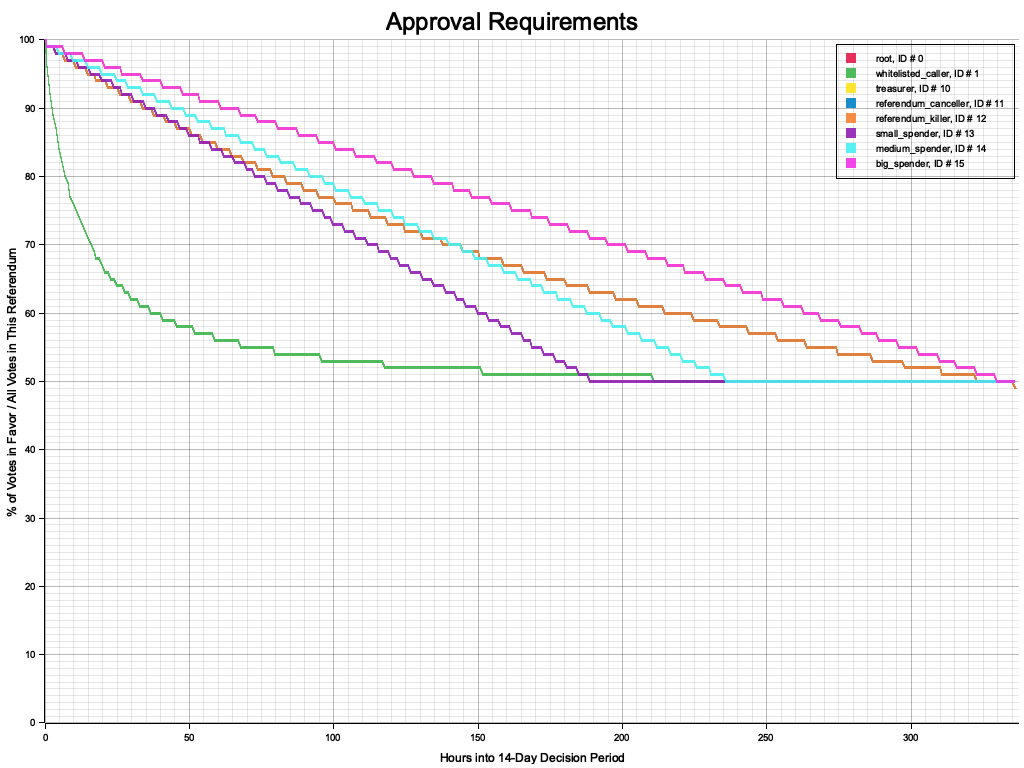
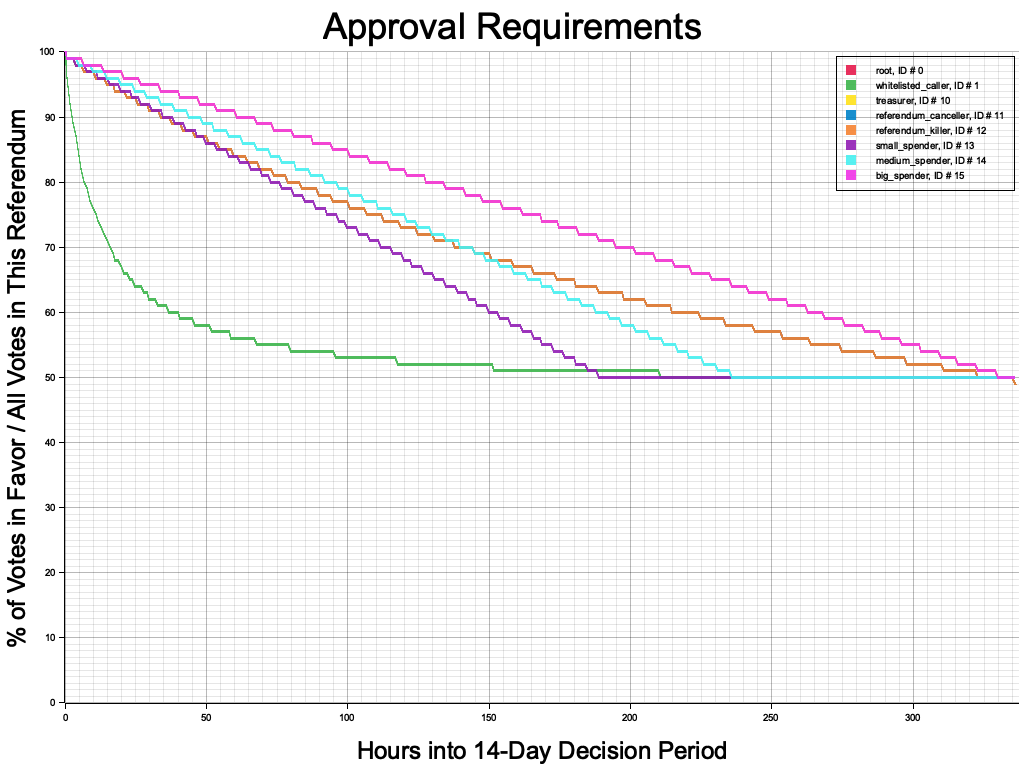
clean

Changed region(s): [[0.0, 0.0, 1.0, 1.0]]

diff --git a/src/curve.rs b/src/curve.rs
@@ -23,6 +23,7 @@ pub struct CurveInfo {
 
 pub type Curves = Vec<CurveInfo>;
 
+/// Assumes all curves have same decision period
 fn decision_period(curves: &Curves) -> u32 {
     let hours = curves[0].points.len();
     for curve in curves {
@@ -33,8 +34,15 @@ fn decision_period(curves: &Curves) -> u32 {
     hours.try_into().unwrap()
 }
 
-/// Assumes all curves have same decision period
-pub(crate) fn plot_curves_comparison(ty: CurveType, curves: Curves) {
+pub(crate) fn plot_approval_curves(curves: Curves) {
+    plot_curves_comparison(CurveType::Approval, curves)
+}
+
+pub(crate) fn plot_support_curves(curves: Curves) {
+    plot_curves_comparison(CurveType::Support, curves)
+}
+
+fn plot_curves_comparison(ty: CurveType, curves: Curves) {
     let (plot_png, plot_title, y_axis_label) = match ty {
         CurveType::Approval => (
             "plots/Approvals.png",
@@ -51,15 +59,15 @@ pub(crate) fn plot_curves_comparison(ty: CurveType, curves: Curves) {
     grid.fill(&WHITE).unwrap();
     let hours = decision_period(&curves);
     let mut plot = ChartBuilder::on(&grid)
-        .caption(&plot_title, ("sans-serif", 30))
+        .caption(&plot_title, ("sans-serif", 45))
         .margin(5)
-        .set_left_and_bottom_label_area_size(40)
+        .set_left_and_bottom_label_area_size(60)
         .build_cartesian_2d(0..hours, 0..100)
         .unwrap();
     plot.configure_mesh()
         .y_desc(y_axis_label)
         .x_desc(format!("Hours into {}-Day Decision Period", hours / 24))
-        .axis_desc_style(("sans-serif", 15))
+        .axis_desc_style(("sans-serif", 30))
         .draw()
         .unwrap();
     for (i, curve) in curves.iter().enumerate() {
@@ -89,29 +97,24 @@ pub(crate) fn plot_track_curves(
         format!("points/{} Approval.csv", name),
         format!("points/{} Support.csv", name),
     );
-    let app_grid = BitMapBackend::new(&app_plot_png, (600, 400)).into_drawing_area();
-    app_grid.fill(&WHITE).unwrap();
-    let sup_grid = BitMapBackend::new(&sup_plot_png, (600, 400)).into_drawing_area();
-    sup_grid.fill(&WHITE).unwrap();
+    let make_grid = |file_name| {
+        let grid = BitMapBackend::new(file_name, (600, 400)).into_drawing_area();
+        grid.fill(&WHITE).unwrap();
+        grid
+    };
+    let app_grid = make_grid(&app_plot_png);
+    let sup_grid = make_grid(&sup_plot_png);
     let hours = 24 * days;
-    let mut app_plot = ChartBuilder::on(&app_grid)
-        .caption(
-            &format!("{} Approval, TrackID #{}", name, id),
-            ("sans-serif", 30),
-        )
-        .margin(5)
-        .set_left_and_bottom_label_area_size(40)
-        .build_cartesian_2d(0..hours + 1, 0..100)
-        .unwrap();
-    let mut sup_plot = ChartBuilder::on(&sup_grid)
-        .caption(
-            &format!("{} Support, TrackID #{}", name, id),
-            ("sans-serif", 30),
-        )
-        .margin(5)
-        .set_left_and_bottom_label_area_size(40)
-        .build_cartesian_2d(0..hours + 1, 0..100)
-        .unwrap();
+    let make_plot = |grid, title| {
+        ChartBuilder::on(grid)
+            .caption(&title, ("sans-serif", 30))
+            .margin(5)
+            .set_left_and_bottom_label_area_size(40)
+            .build_cartesian_2d(0..hours + 1, 0..100)
+            .unwrap()
+    };
+    let mut app_plot = make_plot(&app_grid, format!("{} Approval, TrackID #{}", name, id));
+    let mut sup_plot = make_plot(&sup_grid, format!("{} Support, TrackID #{}", name, id));
     let x_axis_label = format!("Hours into {}-Day Decision Period", days);
     app_plot
         .configure_mesh()
@@ -173,7 +176,6 @@ fn perbill_to_i32_percent_conversion() {
     }
 }
 
-// TODO: expose in substrate
 /// Determine the `y` value for the given `x` value.
 fn threshold(curve: &Curve, x: Perbill) -> Perbill {
     match curve {

diff --git a/src/main.rs b/src/main.rs
@@ -25,6 +25,6 @@ fn main() {
             points: support_curve_points,
         });
     }
-    plot_curves_comparison(CurveType::Approval, approval_curves);
-    plot_curves_comparison(CurveType::Support, support_curves);
+    plot_approval_curves(approval_curves);
+    plot_support_curves(support_curves);
 }
